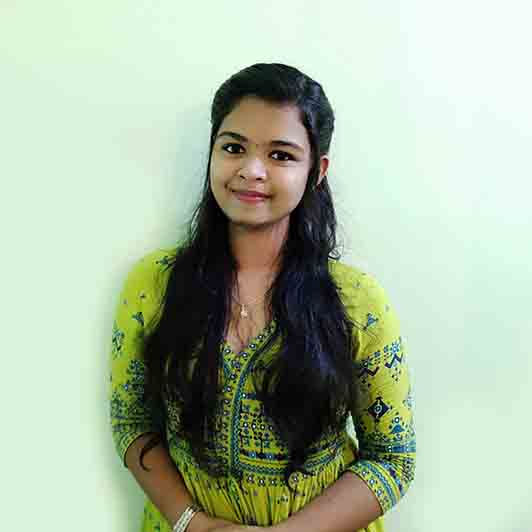
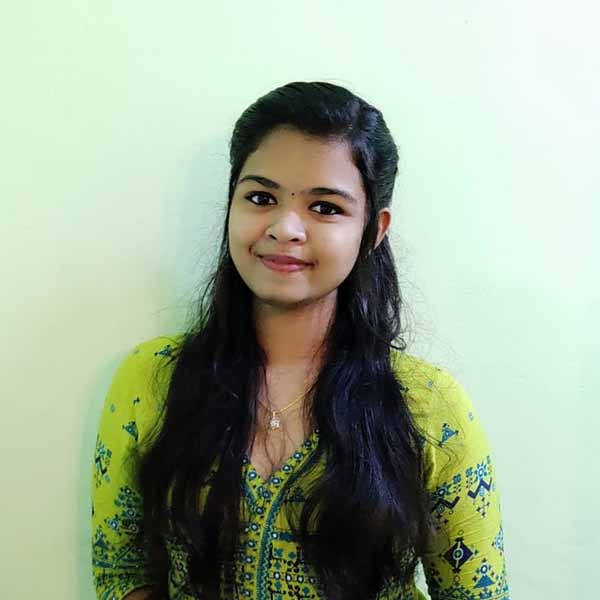
edits final

diff --git a/index.html b/index.html
@@ -136,13 +136,13 @@
 
                     <div class="col-lg-3 col-6 text-center">
                         <i class="fas fa-user-plus ico"></i>
-                        <span data-toggle="counter-up">11</span>
+                        <span data-toggle="counter-up">16</span>
                         <p>Collaborations</p>
                     </div>
 
                     <div class="col-lg-3 col-6 text-center">
                         <i class="fas fa-chalkboard-teacher ico"></i>
-                        <span data-toggle="counter-up">5413</span>
+                        <span data-toggle="counter-up">8690</span>
                         <p>Participants</p>
                     </div>
                 </div>
@@ -217,7 +217,7 @@
                                     <div class="row">
                                         <div class="col-lg-8 josna">
                                             <div class="member" data-aos="zoom-in" data-aos-delay="100">
-                                                <div class="pic"><img src="assets/img/team/josna1.jpg" class="img-fluid" alt="josna" loading="lazy"></div>
+                                                <div class="pic"><img src="assets/img/team/josna.jpg" class="img-fluid" alt="josna" loading="lazy"></div>
                                                 <div class="member-info">
                                                     <h4>Josna V R</h4>
                                                     <span></span>
@@ -634,7 +634,7 @@
                                 make it all happen amidst the pandemic.
                                 <i class="bx bxs-quote-alt-right quote-icon-right"></i>
                             </p>
-                            <img src="assets/img/team/josna1.jpg" class="testimonial-img" alt="josna" loading="lazy">
+                            <img src="assets/img/team/josna.jpg" class="testimonial-img" alt="josna" loading="lazy">
                             <h3>Josna V R</h3>
                             <h4>Student Branch Counsellor</h4>
                         </div>

diff --git a/assets/css/style.css b/assets/css/style.css
@@ -1831,7 +1831,7 @@ body {
     border-radius: 10px;
     padding: 17px 30px;
     color: white;
-    margin-left: 42%;
+    margin-left: 46%;
     text-align: center;
     text-decoration: none;
     display: inline-block;
